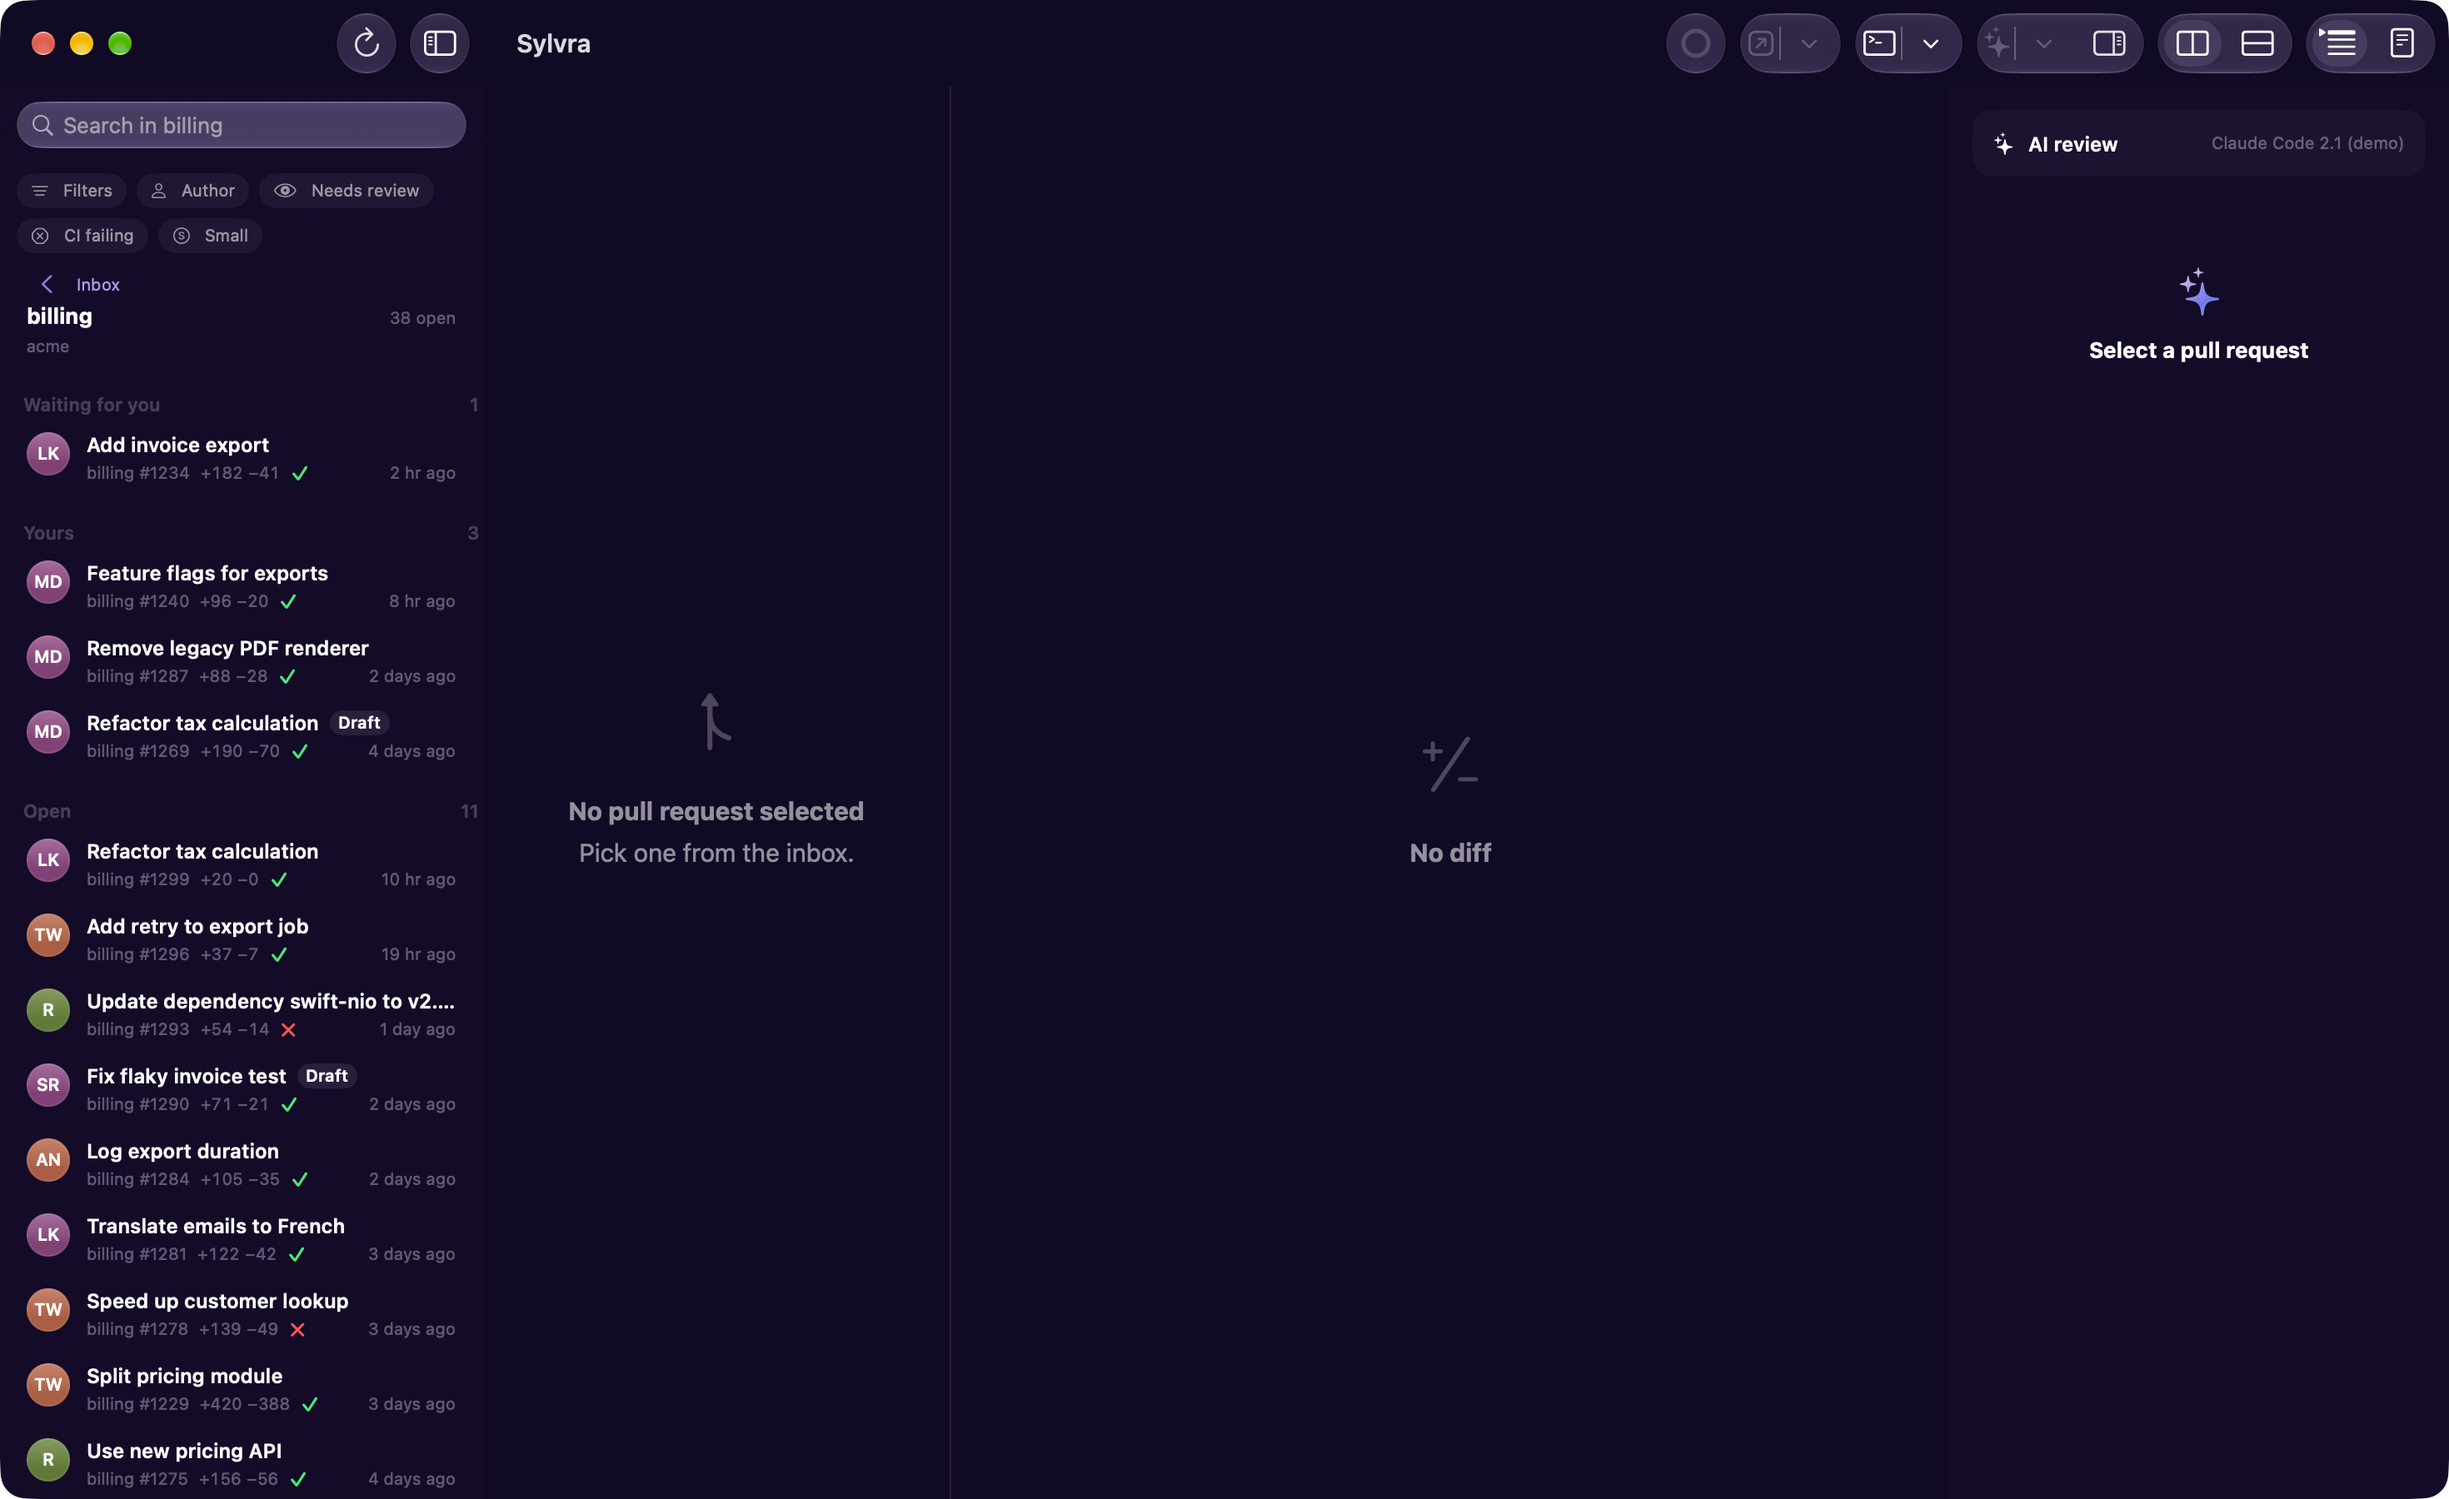
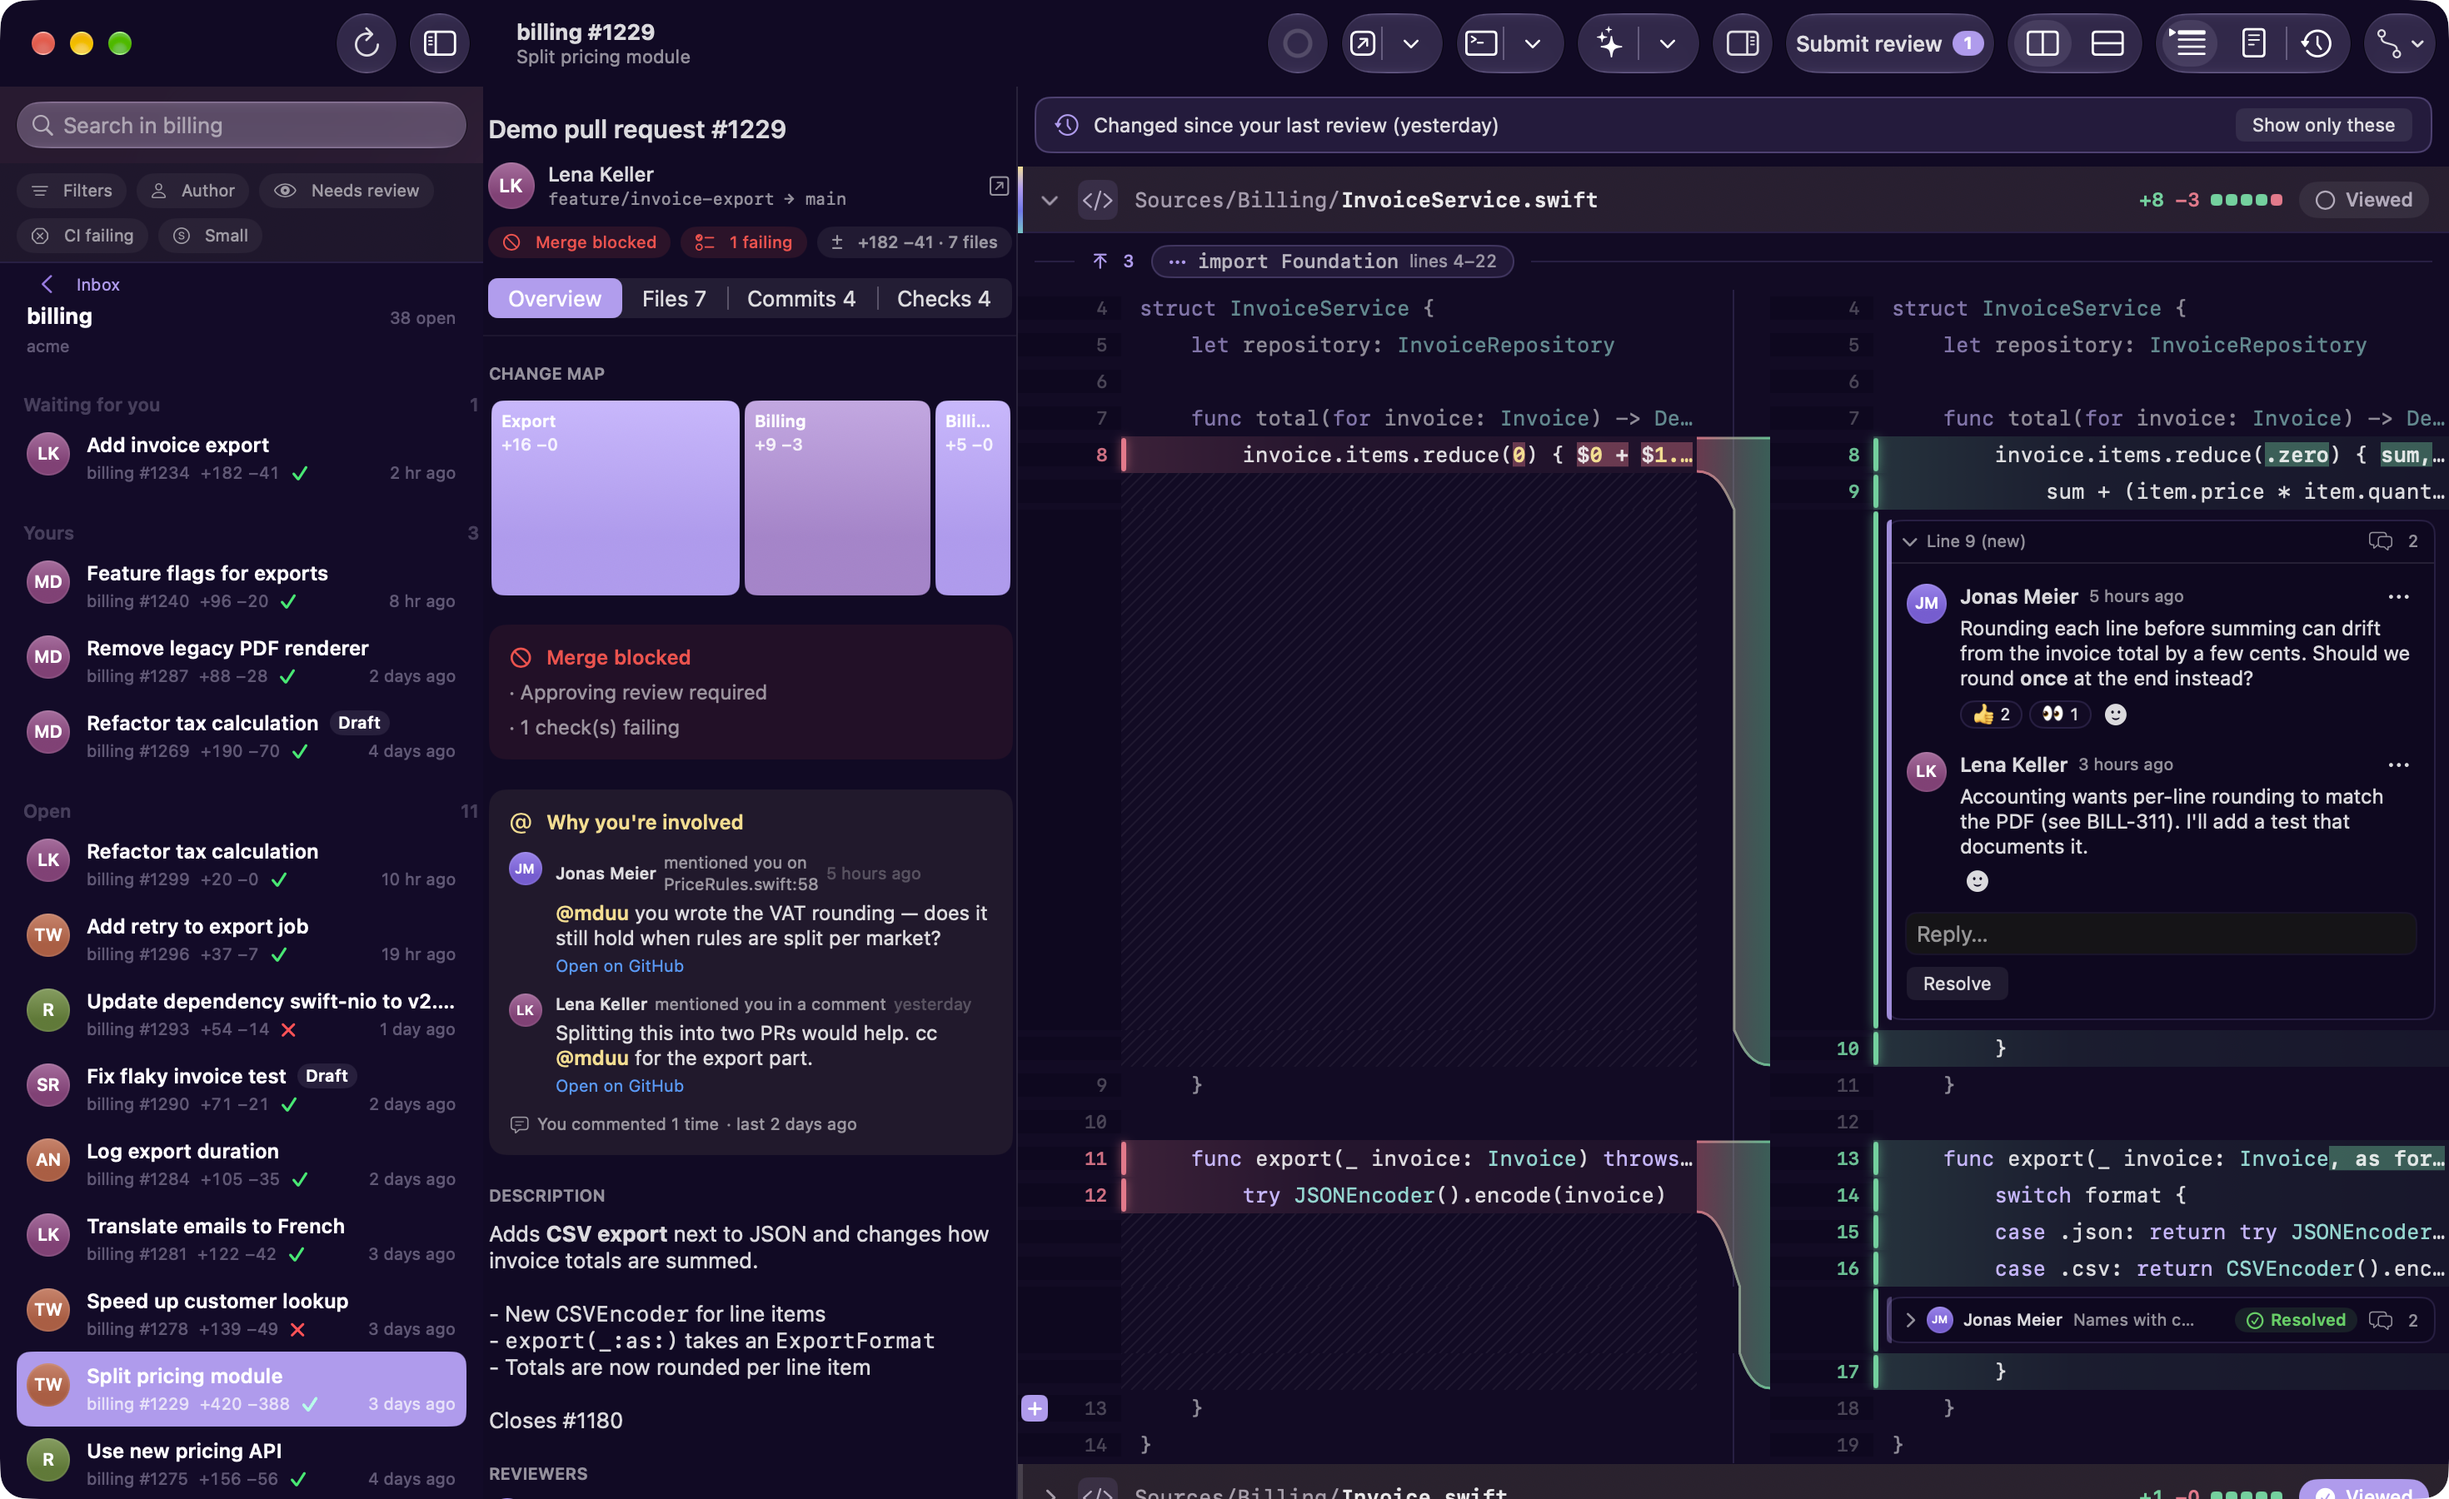
Update README for 0.5 with new screenshots and features
Adds demo launch arguments --commit=N and --open-check for screenshots of
commit-by-commit review and check reports.

diff --git a/App/RootScreen.swift b/App/RootScreen.swift
@@ -115,6 +115,22 @@ struct RootScreen: View {
         .onChange(of: environment.pullRequest.detail?.commits, initial: true) { _, commits in
             // Commit-by-commit review needs the PR's commits (oldest first, as GitHub lists them).
             environment.diff.commits = commits ?? []
+            if let number = environment.initialCommit, let commits, commits.indices.contains(number - 1) {
+                environment.pullRequest.tab = .commits
+                Task {
+                    // The diff of the PR loads in parallel; the commit needs it first.
+                    for _ in 0..<30 where environment.diff.loadState != .loaded {
+                        try? await Task.sleep(for: .milliseconds(100))
+                    }
+                    await environment.diff.showCommit(commits[number - 1])
+                }
+            }
+            if environment.opensFailingCheck,
+                let failing = environment.pullRequest.detail?.checks.first(where: { $0.state == .failure })
+            {
+                environment.pullRequest.tab = .checks
+                environment.pullRequest.openedCheck = failing
+            }
         }
         .onChange(of: environment.diff.selectedPath) { _, path in
             environment.chat.context.file = path

diff --git a/App/AppEnvironment.swift b/App/AppEnvironment.swift
@@ -33,6 +33,10 @@ final class AppEnvironment {
     let showsInspector: Bool
     let autoRunsAIReview: Bool
     let autoTurnsIntoComment: Bool
+    /// Screenshots: review this commit (1-based) on its own (`--commit=2`).
+    let initialCommit: Int?
+    /// Screenshots: open the report of the first failing check (`--open-check`).
+    let opensFailingCheck: Bool
     let gitHub: GitHubClient
     let inbox: InboxScreenModel
     let pullRequest: PullRequestScreenModel
@@ -52,6 +56,8 @@ final class AppEnvironment {
         showsInspector = !arguments.contains("--no-inspector")
         autoRunsAIReview = arguments.contains("--run-ai-review")
         autoTurnsIntoComment = arguments.contains("--turn-into-comment")
+        initialCommit = Self.value(of: "--commit", in: arguments).flatMap(Int.init)
+        opensFailingCheck = arguments.contains("--open-check")
         gitHub = GitHubClient(tokenProvider: GitHubCLITokenProvider())
         let inboxLoader: any InboxLoading = isDemo ? DemoInboxLoader() : GitHubInboxLoader(client: gitHub)
         inbox = Self.makeInbox(loader: inboxLoader, gitHub: gitHub, isDemo: isDemo, arguments: arguments)

diff --git a/README.md b/README.md
@@ -11,47 +11,59 @@ Sylvra is a native macOS app for reviewing **your team's GitHub pull requests**,
 Sylvra is **not a Git client** and not a code generator. It helps you understand a change, find what matters and write clear, factual review comments. You stay the reviewer.
 
 <p align="center">
-  <img src="docs/screenshots/app-22-overview.png" alt="Sylvra: inbox, pull request, diff with reading order, review thread with reactions and an inline AI finding, AI inspector" width="100%">
+  <img src="docs/screenshots/app-30-overview.png" alt="Sylvra: inbox with filters and repositories, pull request with AI summary and change map, diff with a review thread and an inline AI finding, AI inspector" width="100%">
 </p>
 
 *The name is a coined word from Latin* silva */ English* sylvan *— forest, wooded.*
 
 ## What it focuses on
 
-### 1. Understand the change quickly
-- **Inbox** of PRs that need you: review requests to you and your teams, PRs you're involved in, your own PRs.
-- **PR at a glance**: description, reviewers, merge status in plain words, checks, commits.
-- **Change map** and file tree (with viewed state synced to GitHub).
-- **AI summary and reading order**: which files to read first and where the risky areas are. The diff sorts itself accordingly.
-- **Since my last review**: only what changed since you last reviewed, plus a banner when someone pushes.
+### 1. Find what needs you
+- **Inbox** of PRs that need you: review requests to you and your teams, PRs you're involved in, your own PRs, recently closed.
+- **Your repositories** below the inbox, with their number of open PRs. Open one to browse *all* its open PRs (waiting for you, yours, the rest), searched on GitHub and loaded while you scroll — usable even for a monolith with hundreds of open PRs.
+- **Filters**: hide bots (Renovate, Dependabot …), specific authors or other people's drafts; quick chips for author, *needs review*, *CI failing* and small PRs. Right-click a PR to hide its author.
+- **Why you're involved**: where you were @-mentioned (description, comments, code comments with file and line).
+- Works with large organizations: you choose the repositories, searches stay small, GitHub timeouts are retried and SSO restrictions are explained.
 
-### 2. A diff made for reading
-- Side by side with ribbons between old and new, or inline; changed hunks or full files.
+### 2. Understand the change quickly
+- **PR at a glance**: description, reviewers, merge status in plain words, change map, checks, commits.
+- **AI summary and reading order** pinned above the tabs, visible during the whole review. The diff sorts itself by the reading order.
+- **Since my last review**: only what changed since you last reviewed, plus a banner when someone pushes.
+- **Commit by commit**: select a commit and review only its changes; step through with `⌥]` / `⌥[`.
+- **Failing checks explained**: click a check to read what it reported (summary, annotations with file and line) without leaving the app.
+
+### 3. A diff made for reading
+- Side by side with a ribbon between old and new, or inline; changed hunks or full files.
 - Syntax highlighting, intra-line changes, reveal hidden context step by step (+20 / all).
-- Review threads inline under the line they belong to, with emoji reactions.
+- Review threads and AI findings inline under the lines they belong to, with emoji reactions; the change ribbon keeps running through them.
 - Keyboard first: `j`/`k` files, `n`/`p` changes, `v` viewed, `⌘F` find, `⌘K` command palette, `?` for all shortcuts.
 
-### 3. AI as a reviewer's assistant, never as the reviewer
+### 4. AI as a reviewer's assistant, never as the reviewer
 - **One-click AI review** with your locally installed Claude Code, using your repo's `AGENTS.md`, `CLAUDE.md` and specs as context.
 - **Several models in parallel** (e.g. Opus + Fable); findings are merged and show who found them. Large PRs are split across agents.
-- **Findings in the diff**: highlighted lines and a card below them with rationale and the suggestion as a mini diff.
+- **Findings in the diff**: highlighted lines — click one to open its card with rationale and the suggestion as a mini diff.
 - **Patterns**: which conventions the change follows, violates or introduces.
 - **Discuss code privately**: ask Claude about selected lines in a private chat.
 - The AI agents run **read-only** and **never post anything**. A finding becomes a comment only when you turn it into one.
 
-### 4. Factual, short review comments
+### 5. Factual, short review comments
 - Comments with code suggestions, replies, resolve, pending reviews and submit.
 - **Writing help**: rephrase factually (observation → effect → suggestion), make it shorter, undo.
 - **English or German per comment**: switching translates the draft.
 - **Tone check** while you type: flags dismissive, absolute or loaded wording ("obviously", "always", "falsch" …) and offers a factual rephrase.
 
-### 5. Into the code when needed
+### 6. Into the code when needed
 - **Open in IDE** (Rider, VS Code, Xcode or the default app) in a Sylvra-managed worktree, so your working copy stays untouched.
 - **Terminal panel** and your own **custom tools** on files and folders.
+- **Log window** (Help → Show Log, `⌥⌘L`) with the errors of the current run, ready to copy.
 
 <p align="center">
+  <img src="docs/screenshots/app-26-repository-browser.png" alt="All open pull requests of a repository, grouped and filtered" width="49%">
+  <img src="docs/screenshots/app-31-commit-by-commit.png" alt="Reviewing commit 2 of 4 on its own" width="49%">
+</p>
+<p align="center">
+  <img src="docs/screenshots/app-32-check-report.png" alt="What a failing check reported, with annotations" width="49%">
   <img src="docs/screenshots/app-21-tone-check.png" alt="Comment composer with tone check" width="49%">
-  <img src="docs/screenshots/app-17-violet-light.png" alt="Sylvra in light mode" width="49%">
 </p>
 
 ## Principles
@@ -63,7 +75,7 @@ Sylvra is **not a Git client** and not a code generator. It helps you understand
 
 ## Status
 
-A personal project, used and developed for my own reviews. There is **no release yet**: build it from source. Expect rough edges.
+A personal project, used and developed for my own daily reviews (version 0.5). There are no published releases: build it from source, or build your own signed DMG (see below). Expect rough edges.
 
 ## Requirements
 
